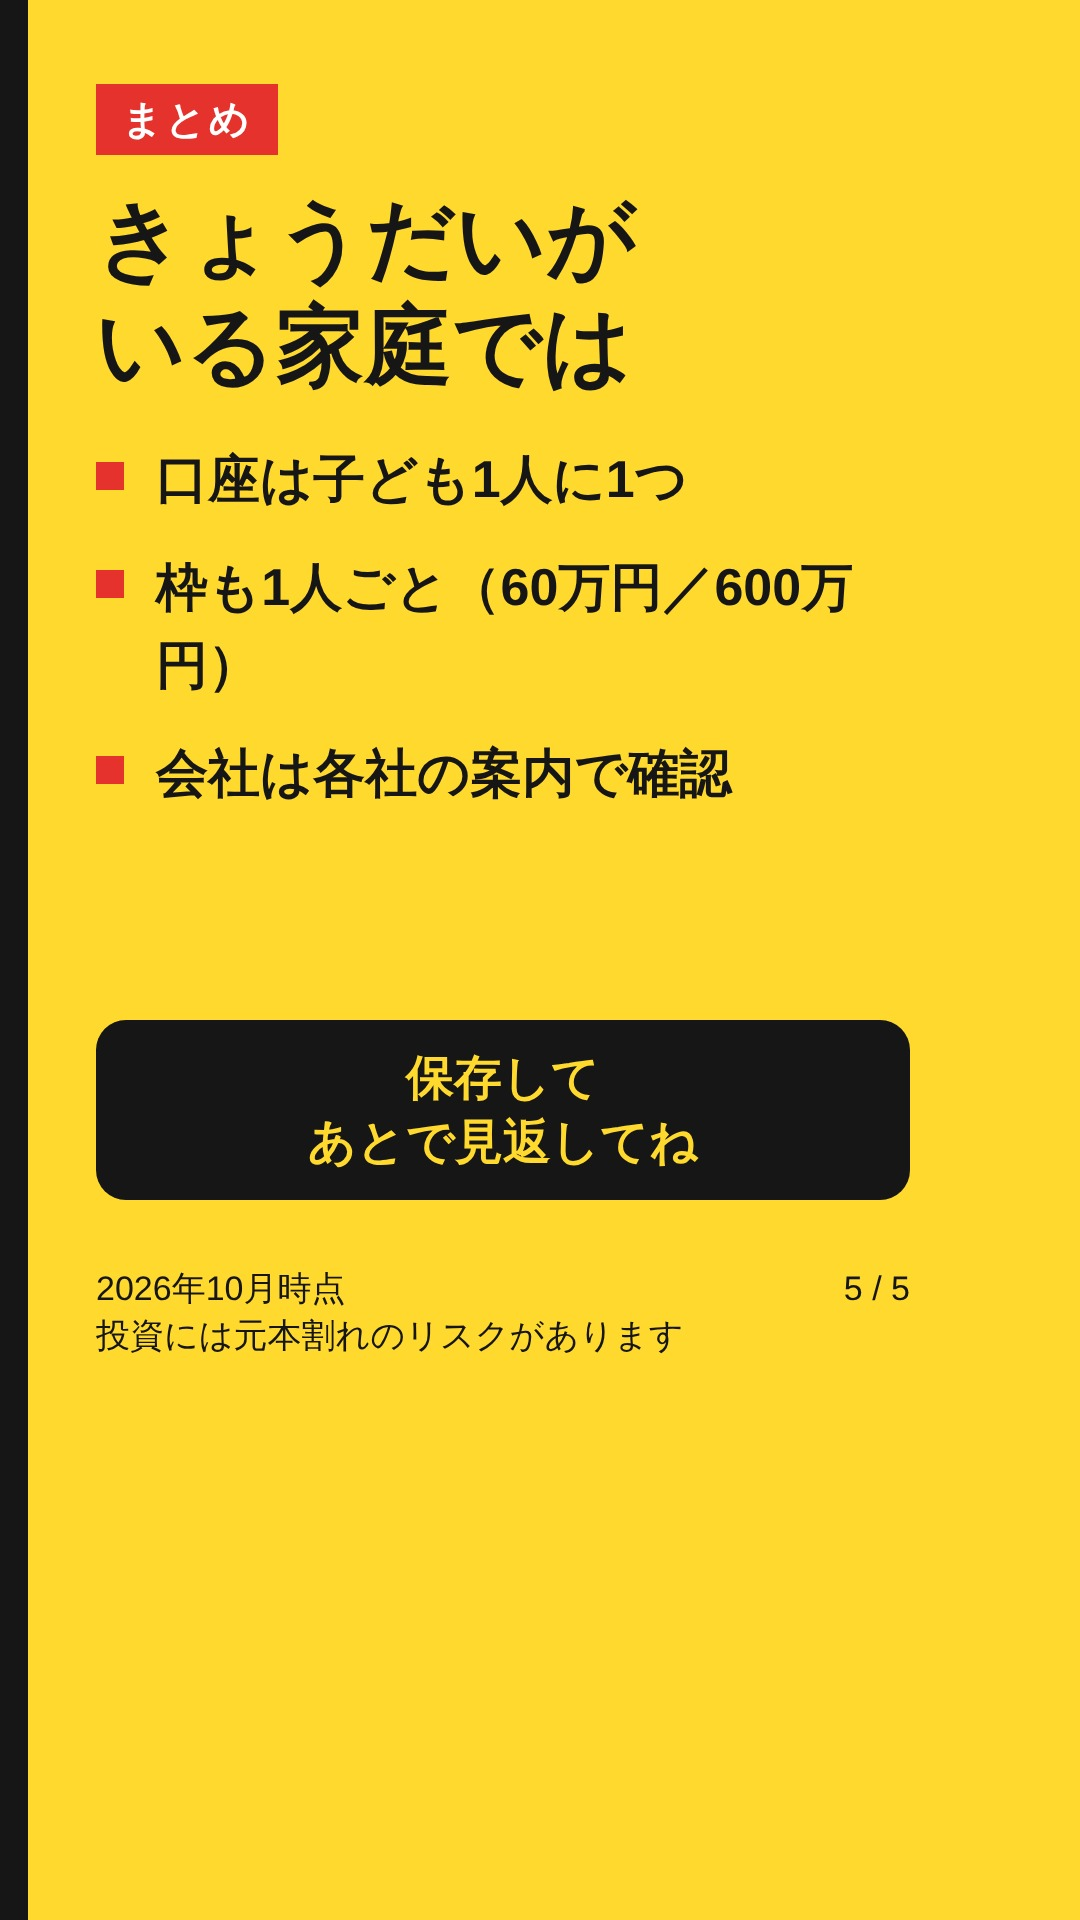
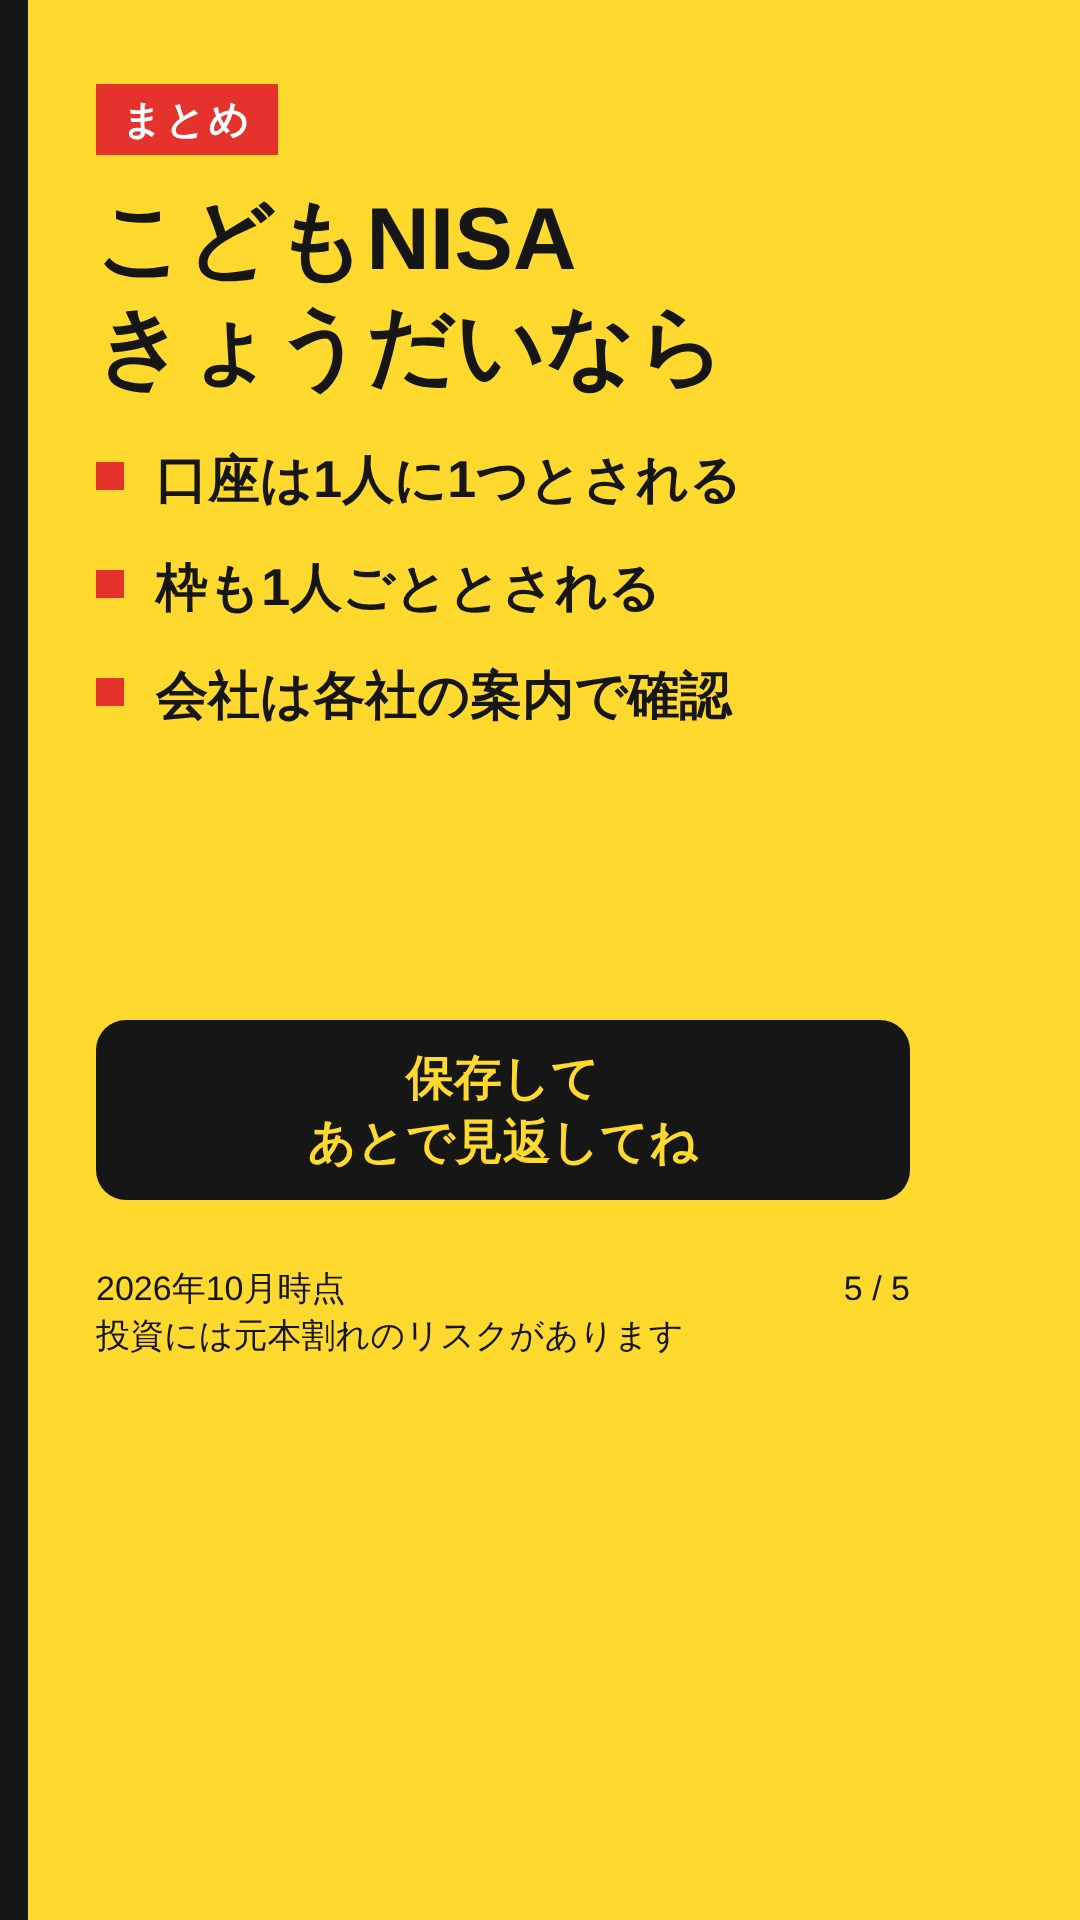
TikTok素材04を修正（検品第1回の指摘対応）。再検品待ち
Claude-Session: https://claude.ai/code/session_012PTddBFVqpDLUmCF36F854

Changed region(s): [[0.0917, 0.0938, 0.7944, 0.4375]]

diff --git a/reviews/tiktok-2026-10-16.md b/reviews/tiktok-2026-10-16.md
@@ -1,0 +1,48 @@
+# 検品: TikTok写真投稿 04 きょうだいがいたら？（第1回）
+- 検品日: 2026-10-16
+- 対象: posts/tiktok/04-kyodai.json、04-kyodai/slide-01〜05.jpg（1080x1920、目視）、narration-140.md「04」、captions.md「04」
+- 根拠: blog/content/posts/kyodai-futari-ijo.md、research/20261010-kodomo-nisa.md（行18・39・74）、docs/compliance.md、docs/tiktok-flow.md、reviews/tiktok-2026-10-12.md
+- 判定: 【差し戻し】（必須は1点のみ。改行の直しで通る見込み）
+- スコア: A法令 OK ・ B事実 5/5 ・ C企画SEO 4/5 ・ D読みやすさ 3/5
+
+## 必須修正（差し戻し理由）
+| # | 該当箇所（引用） | 問題 | 修正案 |
+|---|---|---|---|
+| 1 | 5枚目 箇条書き2つ目「枠も1人ごと（60万円／600万／円）」 | 「円）」が単独で3行目に落ちている（途中改行・孤立）。前回2026-10-12の共3で必須とした不具合と同じ型。保存して見返される5枚目で、金額の表記が割れて読みにくい | 文を短くして1行に収める。例「枠も1人ごと」＋次の行に小さく「（年60万円／上限600万円）」。または「枠も1人ごと（60／600万円）」のように金額を割らない形にする。bullet 幅を広げてもよい |
+
+## 確認結果（チェックリスト）
+- A 法令: OK
+  - リンクなし、アフィリエイト要素なし。PR表記は不要（前回と同じ判断）。
+  - 最上級・断定なし。「とされています」で留保している（2・3枚目本文、ナレーション、キャプション）。
+  - 税（贈与税）への言及なし。体験談・捏造なし。個別の会社名・勧誘・おすすめなし。
+  - 時点・元本割れ: 全5枚のフッターに「2026年10月時点／投資には元本割れのリスクがあります」あり。キャプションにも両方あり。
+- B 事実: 5/5
+  - 口座は子ども1人に1つ、年間投資枠60万円、非課税保有限度額600万円は1人ごと、会社をそろえる必要は未確認、親の口座も必要になりうる。いずれもブログ（kyodai-futari-ijo）と research（行18・39・74）に一致。
+  - 4枚目「確認できていません」は、ブログ「今回の調査では確認できていません」と同趣旨で、事実として正しい。
+- C 企画SEO: 4/5
+  - きょうだいがいる場合の検索意図（口座数・枠・会社）に答えている。ブログの見出し順とも合っている。
+  - 1枚目に「こどもNISA」の明示あり（前回指摘の1-1は反映済み）。
+- 前回指摘の反映
+  - 隠れる領域: 本文・吹き出し・CTA・フッターはすべて y≒1360 より上に収まり、下部UIとは重ならない。キャラ円は右端 x≒946（目安940を6px超えるだけ。実害なし）。解消。
+  - フッター位置と大きさ: y≒1270〜1350、見える位置。解消。
+  - 途中改行: 1〜4枚目は文節で改行できている。5枚目のみ残る（必須1）。
+  - 元本割れ注記: 画像・キャプションとも解消。
+- D 読みやすさ: 3/5（必須1で減点。ほかは良好）
+
+## 推奨修正（合格を妨げない）
+1. 5枚目の箇条書きと見出しは言い切り（「口座は子ども1人に1つ」「枠も1人ごと」）。2・3枚目本文は「とされています」だが、保存されて単独で見られるのは5枚目。「…とされる」を足すか、「（公表資料にもとづく整理）」を1行入れる。
+2. 5枚目のまとめに「こどもNISA」の語がない。保存画像だけだと何の話か分からない。見出しを「こどもNISA、きょうだいがいる家庭では」にするとよい。
+3. 4枚目の見出し「会社はそろえる？」は、何の会社か（きょうだい間でそろえるのか、親と子でそろえるのか）が曖昧。本文・吹き出し（親の口座も要るかも）と合わせて、きょうだいの話と親の話が混ざって見える。「きょうだいで会社はそろえる？」が明確。
+4. 4枚目「確認できていません」は、読み手には「誰が確認できていないのか」が分かりにくい。「各社で異なる可能性があります」「公表資料には明記がありません」のほうが自然。
+5. narration-140.md の見出し「（85字）」は実際と合わない。数えると約111字。140字以内なので問題なし。字数表記だけ直す。
+6. ナレーションに時点（2026年10月時点）と元本割れの一言がない。画面のフッターには出るが、音声だけを聞く場合のため、末尾に「投資には元本割れのリスクがあります」を足す余地がある（140字以内に収まる）。
+7. 左端の黒い縞（約28px）が残っている。前回の推奨から未対応。余白が左右非対称に見える。
+8. 1枚目の上半分以下（y≒500〜930）が大きく空いている。表紙の見出しをやや大きくするか、中央に寄せると見映えがよい。
+
+## 良かった点
+- 前回の指摘（隠れる領域、フッターの位置・大きさ、こどもNISAの明示、元本割れの注記、途中改行）をほぼ反映している。
+- 内容がブログ・research と一致。未確認の点（会社をそろえる必要）を「確認できていない」と正直に書き、公式への確認で締めている。
+- 税の話・リンク・勧誘・会社名なし。キャプションの文面とハッシュタグも適正（無関係なタグなし）。
+
+## 次の対応
+5枚目の箇条書き2つ目の改行を直せば再検品で通る見込み（これが04の検品2回目になる）。推奨1・2・3は同じ5枚目・4枚目の直しと一緒に行うとよい。

diff --git a/posts/tiktok/narration-140.md b/posts/tiktok/narration-140.md
@@ -9,5 +9,5 @@
 ## 03 18歳でどうなる？（91字）
 こどもNISA、18歳でどうなる？成人のつみたて投資枠へ移るとされています。12歳からは条件つきで引き出せるとされ、それまでは原則引き出せません。細かい条件は未確定の部分もあります。
 
-## 04 きょうだいがいたら？（85字）
-こどもNISA、きょうだいがいたらどうなる？口座は子ども1人に1つとされています。年間60万円、上限600万円の枠も、1人ごとにあるとされています。きょうだいで会社をそろえる必要があるかは、各社の案内で確認しましょう。
+## 04 きょうだいがいたら？（116字）
+こどもNISA、きょうだいがいたらどうなる？口座は子ども1人に1つとされています。年間60万円、上限600万円の枠も、1人ごとにあるとされています。会社をそろえる必要があるかは、各社の案内で確認しましょう。投資は元本割れもあります。
